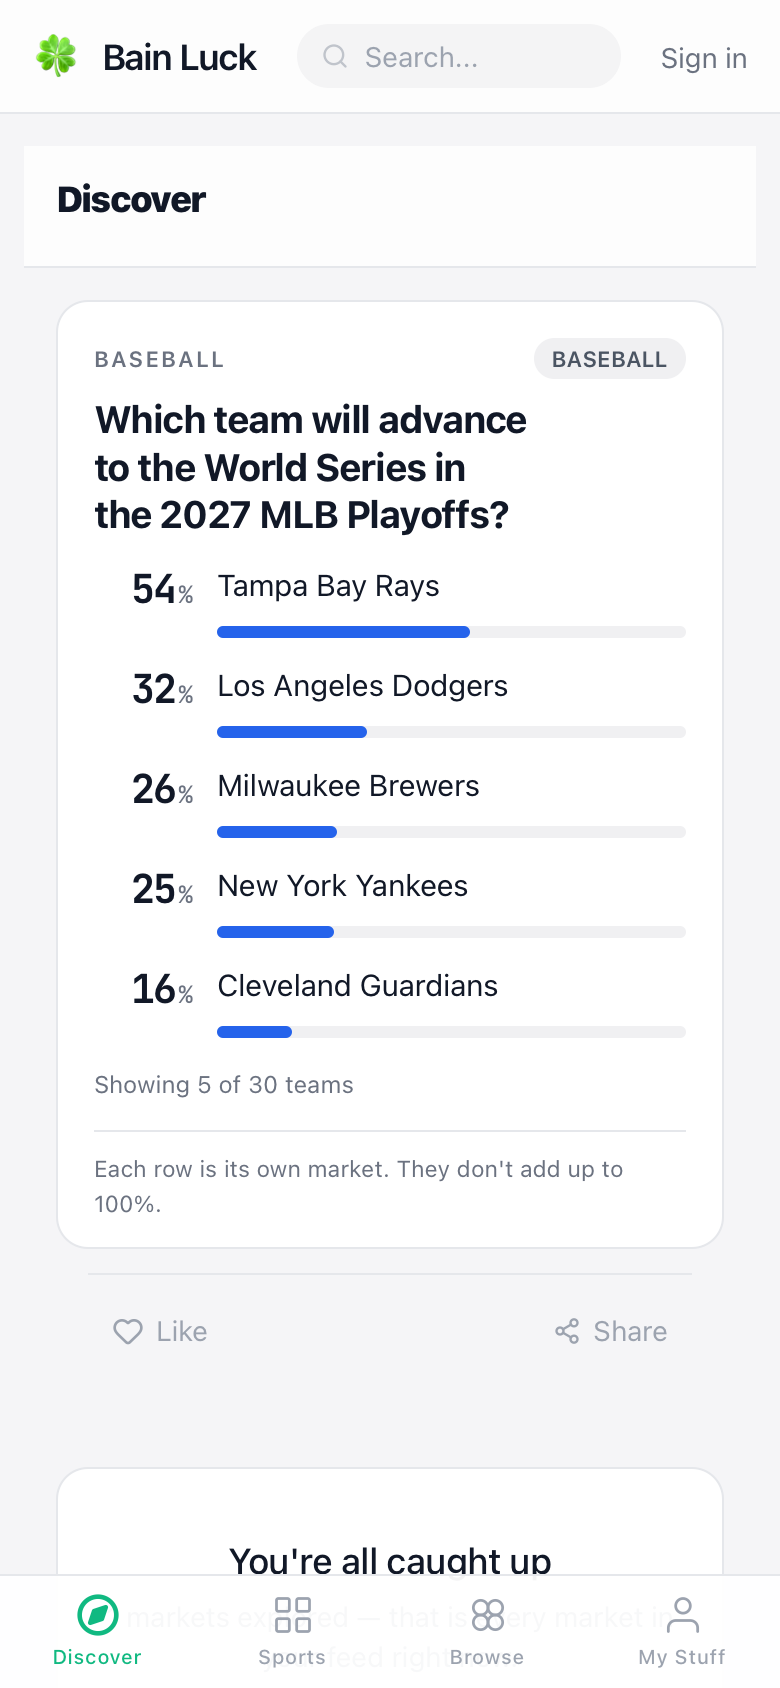
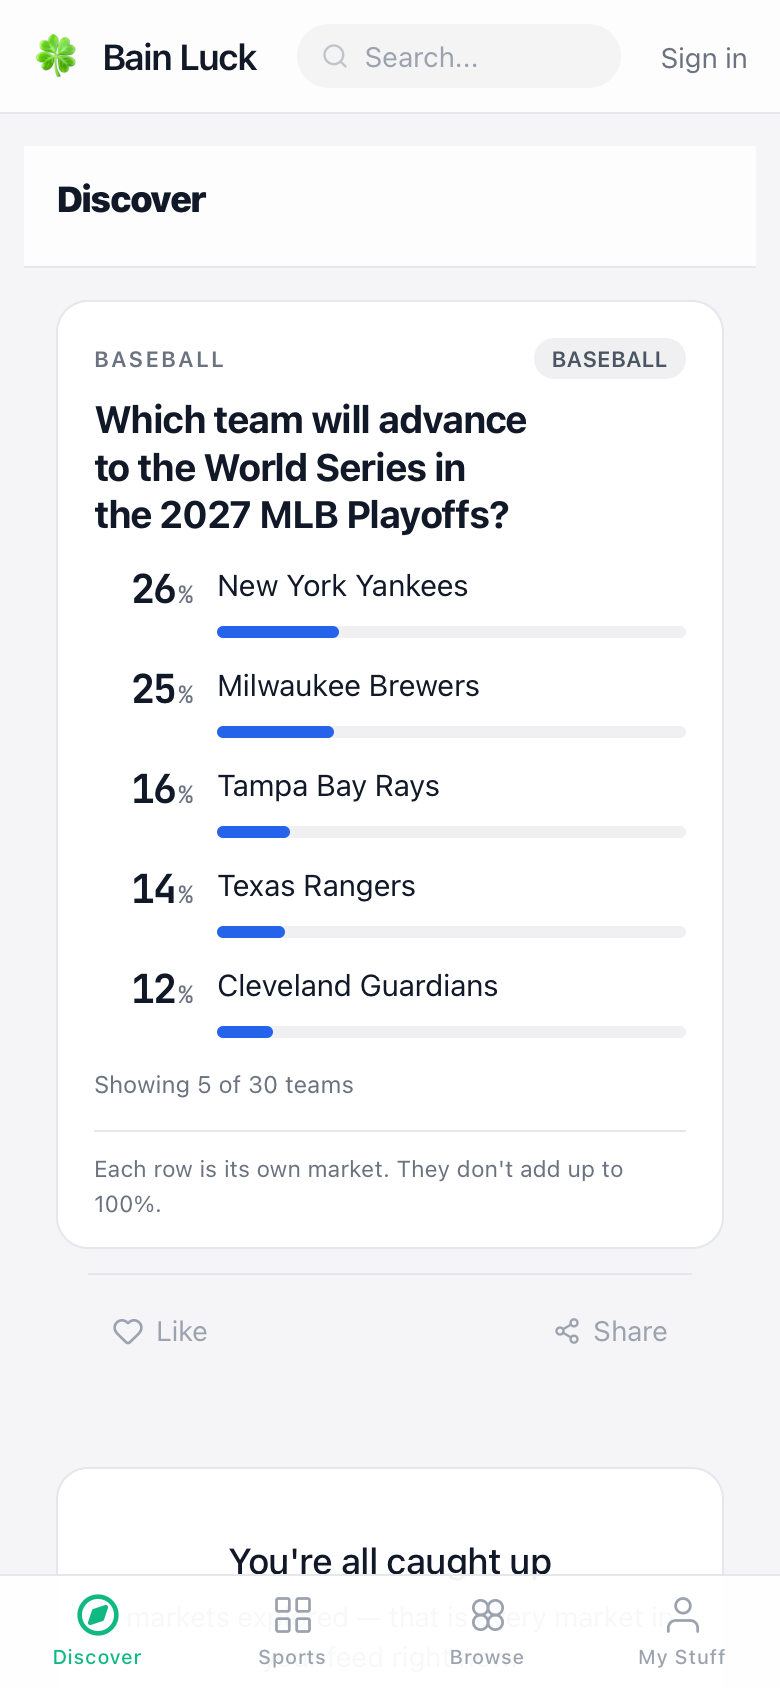
fix(discover): render from live API, hold volatile MLB card, and summarize unpriced count (#12374)

diff --git a/backend/tests/test_grouping_licences_12375.py b/backend/tests/test_grouping_licences_12375.py
@@ -202,9 +202,11 @@ class TestExit1LicensedProposalBecomesLiveCardThroughReviewedPath:
         assert sib_outcome.promoted is False
         assert sib_outcome.reason == "kind_not_licensed:held"
 
-        # Under Decide 117-A, sibling_family is PASS and its 6 verified serve families
+        # Under Decide 117-A, sibling_family is PASS and its 5 verified stable serve families
         # are promoted into backend/data/containers/ with clean reader-facing slugs,
-        # proposal_id provenance, and review_path == "tier-b-pr"
+        # proposal_id provenance, and review_path == "tier-b-pr" (mlb-world-series-pennant-2027
+        # is held out because thin off-season books moved Rays 54% -> 15.5% and Dodgers 32% -> 8%).
+        assert not (DEFAULT_CONTAINERS_DIR / "mlb-world-series-pennant-2027.json").exists()
         for promoted_slug, expected_proposal_id in (
             (
                 "nhl-players-100-points-2026-27",
@@ -221,10 +223,6 @@ class TestExit1LicensedProposalBecomesLiveCardThroughReviewedPath:
             (
                 "liga-profesional-relegation-2026",
                 "proposed-polymarket-will-contenders-be-relegated-from-the-2026-liga",
-            ),
-            (
-                "mlb-world-series-pennant-2027",
-                "proposed-polymarket-will-teams-advance-to-the-world-series-in-the-20",
             ),
             (
                 "nhl-playoffs-2026-27",

diff --git a/backend/app/utils/sibling_family.py b/backend/app/utils/sibling_family.py
@@ -987,6 +987,9 @@ def _build_member_card(member: _SiblingMember) -> dict[str, Any]:
     return card
 
 
+MAX_INLINE_UNNUMBERED_NAMES = 4
+
+
 def _format_count_line(
     shown_count: int,
     total_count: int,
@@ -1002,7 +1005,15 @@ def _format_count_line(
         else:
             parts.append(f"Showing {shown_count} of {total_count}")
     if unnumbered_subjects:
-        parts.append(f"No number yet: {', '.join(unnumbered_subjects)}")
+        if len(unnumbered_subjects) > MAX_INLINE_UNNUMBERED_NAMES:
+            target = (
+                f"{len(unnumbered_subjects)} {unit}"
+                if unit
+                else f"{len(unnumbered_subjects)}"
+            )
+            parts.append(f"No number yet for {target}")
+        else:
+            parts.append(f"No number yet: {', '.join(unnumbered_subjects)}")
     return " · ".join(parts) if parts else None
 
 
